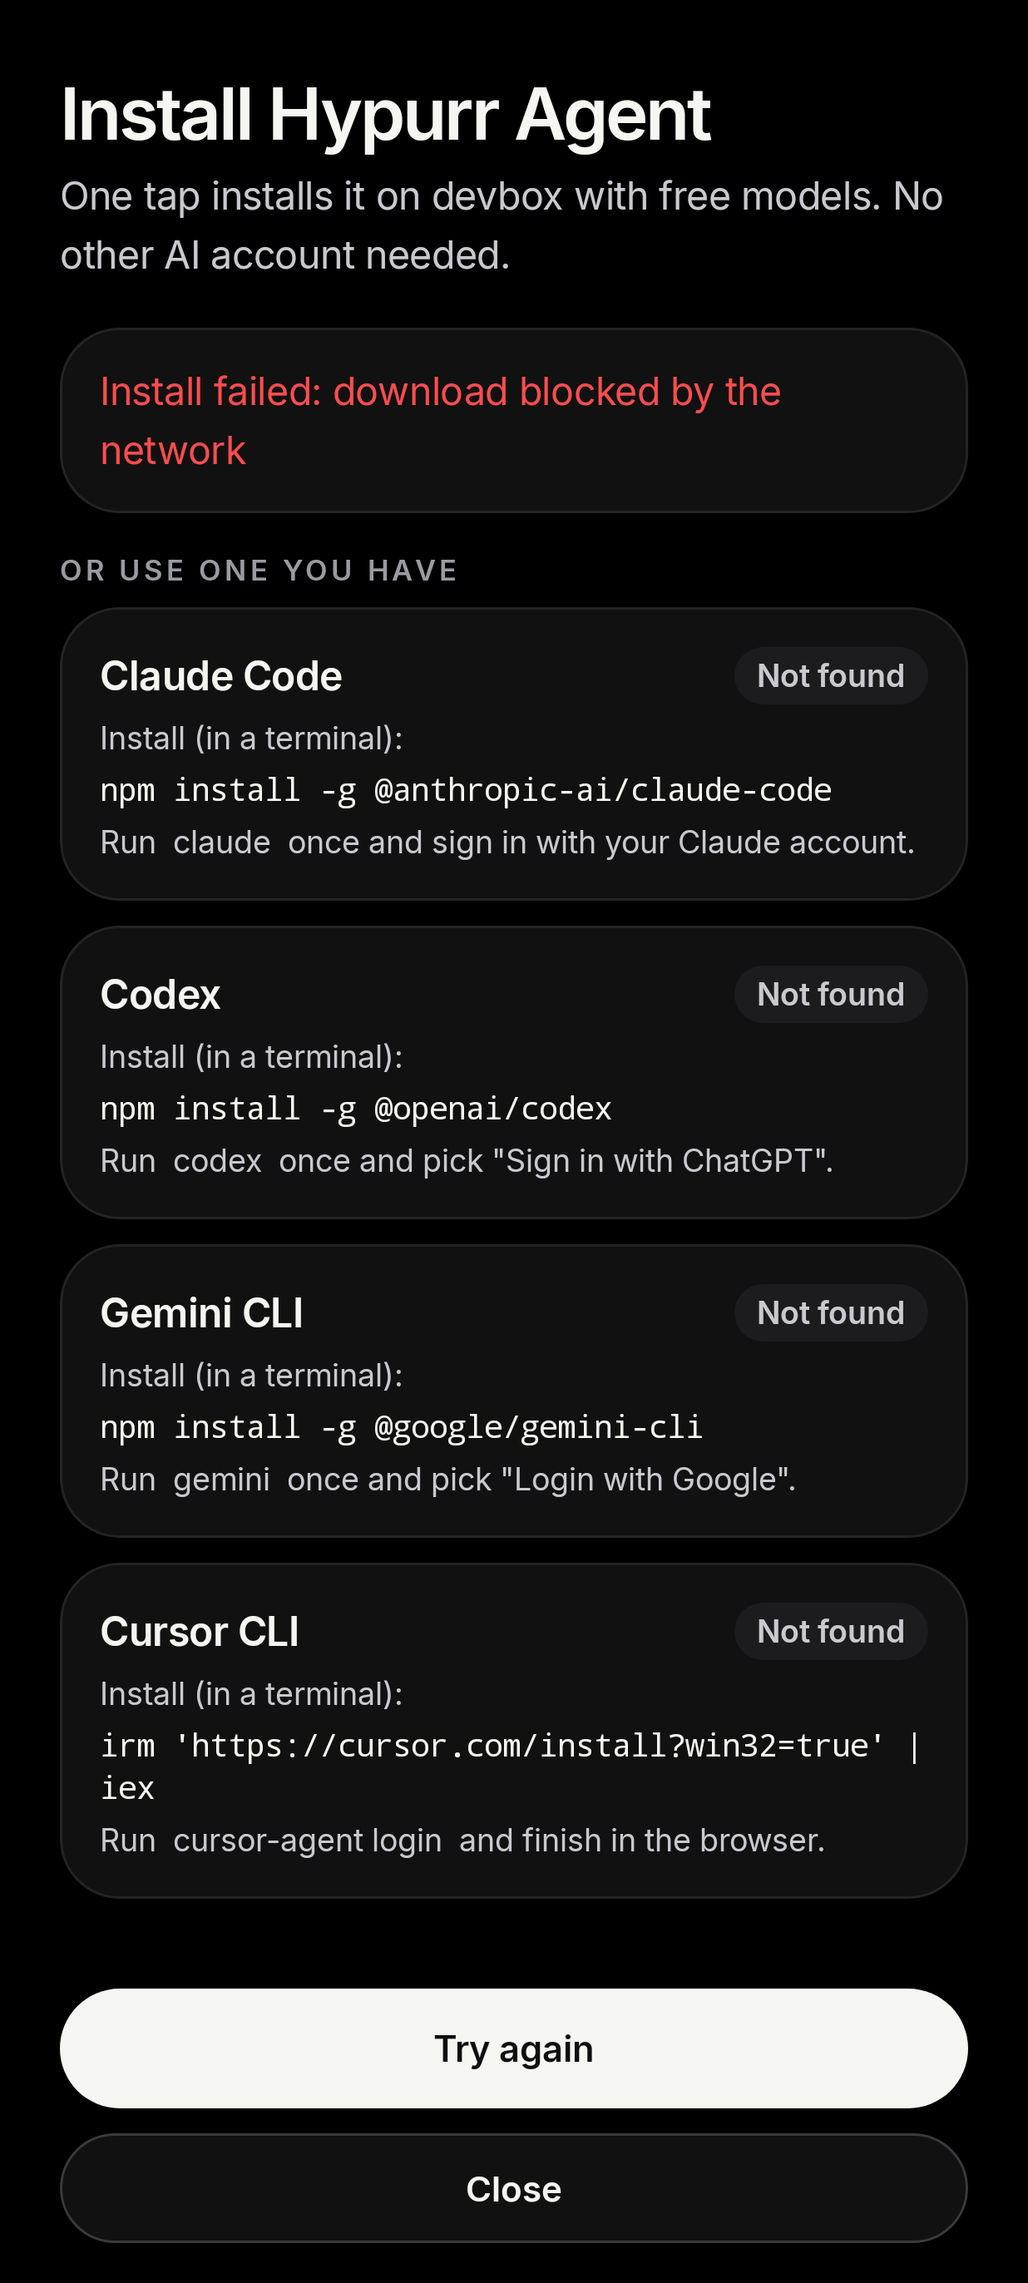
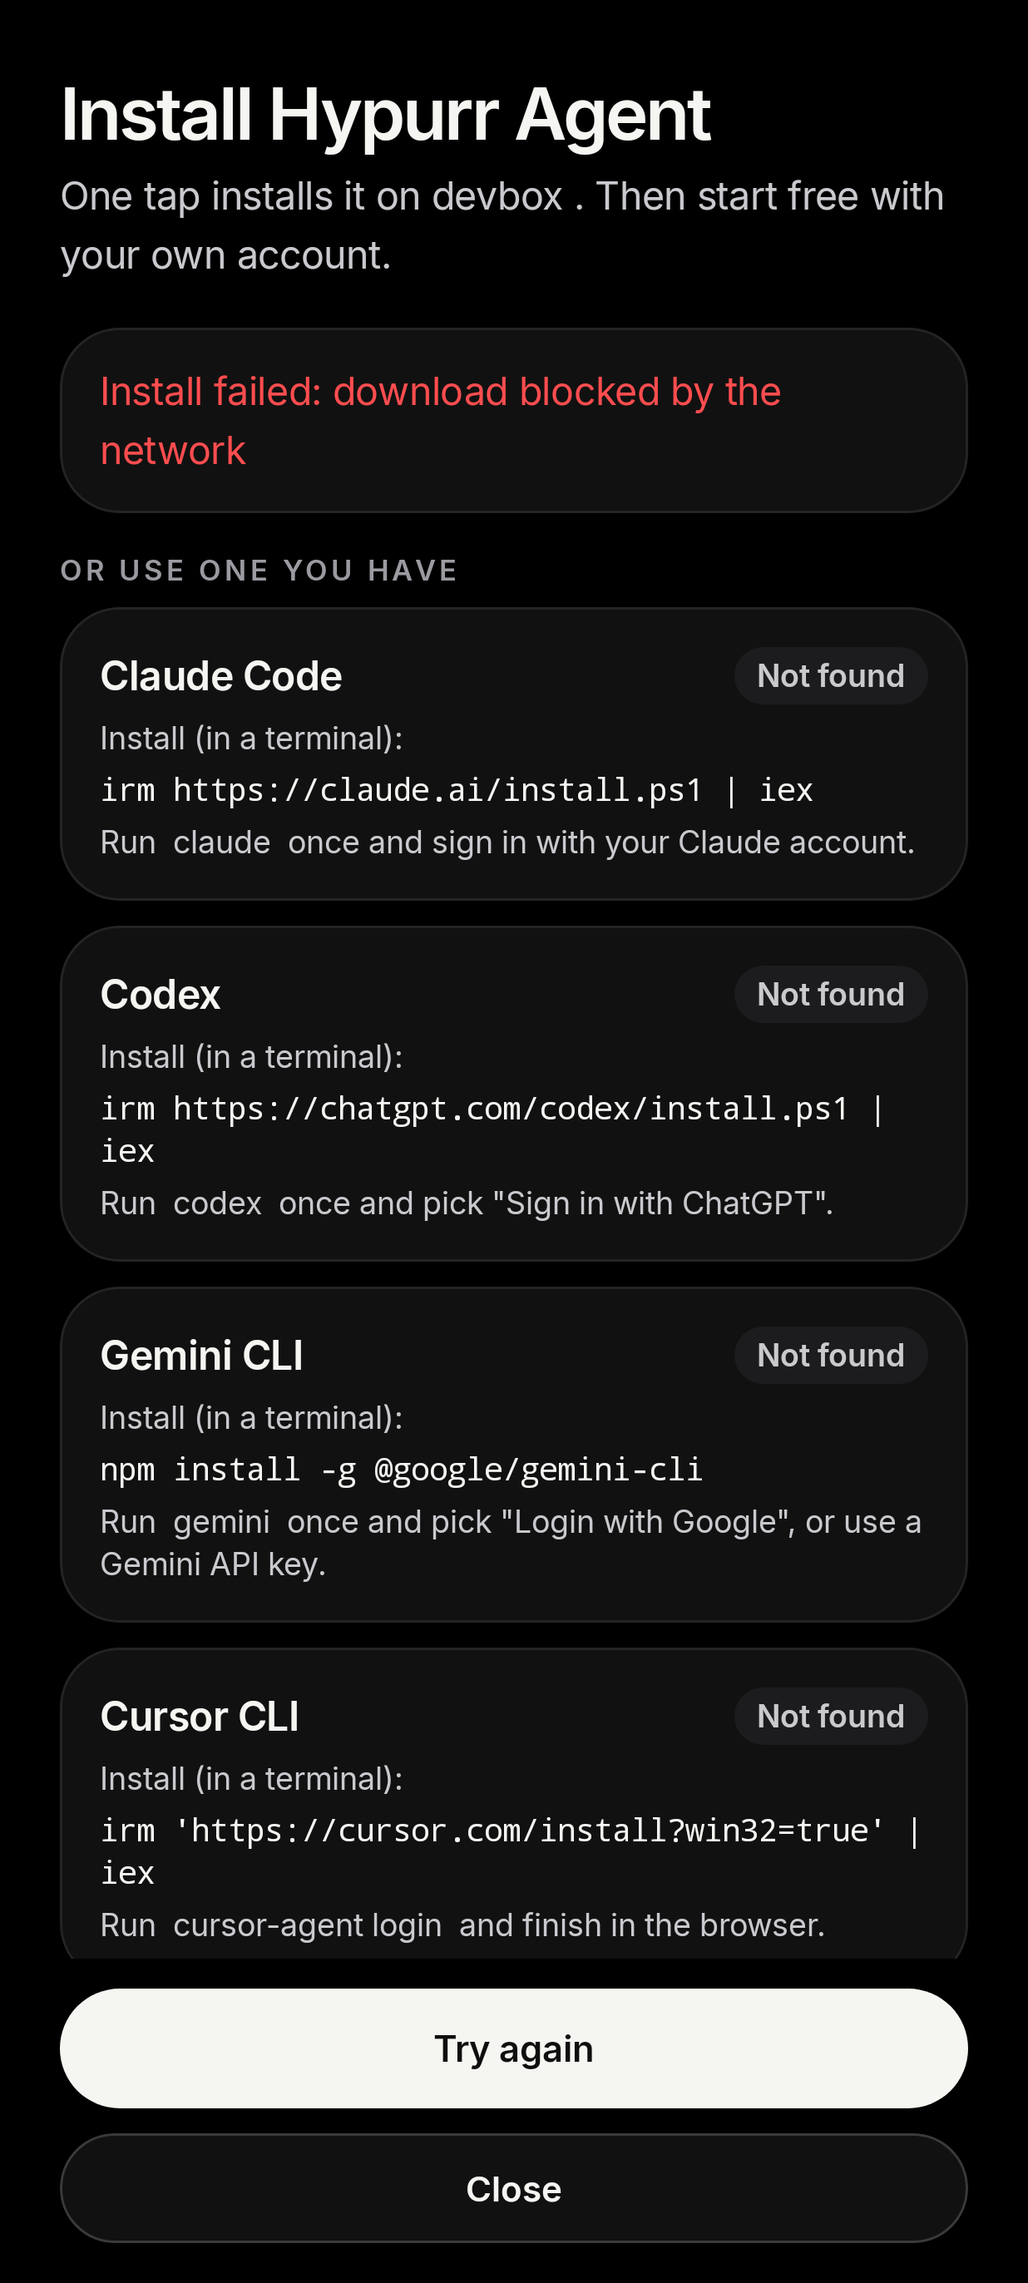
Gemini: plain words when Google refuses free sign-in; Use a Gemini API key (saved in the computer's vault)

diff --git a/apps/android/app/src/main/java/com/ragul84/hypurr/ui/screens/AgentSetup.kt b/apps/android/app/src/main/java/com/ragul84/hypurr/ui/screens/AgentSetup.kt
@@ -16,6 +16,8 @@ import androidx.compose.foundation.verticalScroll
 import androidx.compose.material3.MaterialTheme
 import androidx.compose.material3.Text
 import androidx.compose.runtime.Composable
+import androidx.compose.runtime.getValue
+import androidx.compose.runtime.setValue
 import androidx.compose.ui.Alignment
 import androidx.compose.ui.Modifier
 import androidx.compose.ui.semantics.semantics
@@ -63,7 +65,7 @@ data class KnownAgent(val id: String, val name: String, val install: String, val
 val KnownAgents = listOf(
     KnownAgent("claude", "Claude Code", "irm https://claude.ai/install.ps1 | iex", "Run  claude  once and sign in with your Claude account."),
     KnownAgent("codex", "Codex", "irm https://chatgpt.com/codex/install.ps1 | iex", "Run  codex  once and pick \"Sign in with ChatGPT\"."),
-    KnownAgent("gemini", "Gemini CLI", "npm install -g @google/gemini-cli", "Run  gemini  once and pick \"Login with Google\"."),
+    KnownAgent("gemini", "Gemini CLI", "npm install -g @google/gemini-cli", "Run  gemini  once and pick \"Login with Google\", or use a Gemini API key."),
     KnownAgent("cursor", "Cursor CLI", "irm 'https://cursor.com/install?win32=true' | iex", "Run  cursor-agent login  and finish in the browser."),
 )
 
@@ -75,6 +77,8 @@ fun AgentSetupPanel(
     onPair: () -> Unit = {},
     onCheckAgain: () -> Unit = {},
     onClose: () -> Unit = {},
+    /** Saves a Gemini API key on the computer; null hides the option. */
+    saveGeminiKey: (suspend (String) -> Unit)? = null,
 ) {
     val c = Hypurr.colors
     val mode = agentSetupMode(hello)
@@ -92,7 +96,7 @@ fun AgentSetupPanel(
                 }
                 AgentSetupMode.Windows -> {
                     Title("Use an agent you already have", "Update Hypurr on ${hello?.name?.ifEmpty { null } ?: "your PC"} to install Hypurr Agent with one tap. Until then, Hypurr can drive one of these.")
-                    AgentList(hello?.backends.orEmpty())
+                    AgentList(hello?.backends.orEmpty(), saveGeminiKey = saveGeminiKey)
                     Spacer(Modifier.height(12.dp))
                     Text("After installing, tap Check again.", color = c.tertiary, style = MaterialTheme.typography.bodySmall)
                 }
@@ -114,7 +118,7 @@ fun AgentSetupPanel(
                     Spacer(Modifier.height(16.dp))
                     Eyebrow("Or use one you have")
                     Spacer(Modifier.height(8.dp))
-                    AgentList(hello?.backends.orEmpty(), windows = win)
+                    AgentList(hello?.backends.orEmpty(), windows = win, saveGeminiKey = saveGeminiKey)
                 }
             }
             Spacer(Modifier.height(16.dp))
@@ -168,8 +172,12 @@ private fun Steps(lines: List<String>) {
 }
 
 @Composable
-private fun AgentList(backends: List<Backend>, windows: Boolean = true) {
+private fun AgentList(backends: List<Backend>, windows: Boolean = true, saveGeminiKey: (suspend (String) -> Unit)? = null) {
     val c = Hypurr.colors
+    var keyOpen by androidx.compose.runtime.saveable.rememberSaveable { androidx.compose.runtime.mutableStateOf(false) }
+    if (keyOpen && saveGeminiKey != null) {
+        com.ragul84.hypurr.ui.GeminiKeyDialog(saveGeminiKey, onDone = { keyOpen = false }, onDismiss = { keyOpen = false })
+    }
     Column(verticalArrangement = Arrangement.spacedBy(10.dp)) {
         KnownAgents.forEach { a ->
             val b = backends.firstOrNull { it.id == a.id }
@@ -189,6 +197,9 @@ private fun AgentList(backends: List<Backend>, windows: Boolean = true) {
                             color = c.text, style = MaterialTheme.typography.bodySmall.copy(fontFamily = FontFamily.Monospace))
                     }
                     if (!installed || b?.signedIn == false) Text(a.signIn, color = c.secondary, style = MaterialTheme.typography.bodySmall)
+                    if (a.id == "gemini" && installed && b?.signedIn != true && saveGeminiKey != null) {
+                        SoftButton("Use a Gemini API key", Modifier.fillMaxWidth()) { keyOpen = true }
+                    }
                 }
             }
         }

diff --git a/apps/android/app/src/main/java/com/ragul84/hypurr/ui/GeminiKey.kt b/apps/android/app/src/main/java/com/ragul84/hypurr/ui/GeminiKey.kt
@@ -1,0 +1,83 @@
+package com.ragul84.hypurr.ui
+
+import android.content.Intent
+import android.net.Uri
+import androidx.compose.foundation.background
+import androidx.compose.foundation.layout.Arrangement
+import androidx.compose.foundation.layout.Box
+import androidx.compose.foundation.layout.Column
+import androidx.compose.foundation.layout.fillMaxWidth
+import androidx.compose.foundation.layout.padding
+import androidx.compose.foundation.shape.RoundedCornerShape
+import androidx.compose.foundation.text.BasicTextField
+import androidx.compose.material3.MaterialTheme
+import androidx.compose.material3.Text
+import androidx.compose.runtime.Composable
+import androidx.compose.runtime.getValue
+import androidx.compose.runtime.mutableStateOf
+import androidx.compose.runtime.remember
+import androidx.compose.runtime.rememberCoroutineScope
+import androidx.compose.runtime.setValue
+import androidx.compose.ui.Modifier
+import androidx.compose.ui.graphics.SolidColor
+import androidx.compose.ui.platform.LocalContext
+import androidx.compose.ui.unit.dp
+import androidx.compose.ui.window.Dialog
+import com.ragul84.hypurr.ui.theme.Hypurr
+import kotlinx.coroutines.launch
+import androidx.compose.ui.text.input.PasswordVisualTransformation
+
+const val GEMINI_KEY_URL = "https://aistudio.google.com/apikey"
+
+/**
+ * Gemini with an API key, for accounts where Google refuses free Google sign-in. The key goes
+ * to the computer (kept in its vault, never logged); the phone doesn't keep it.
+ */
+@Composable
+fun GeminiKeyDialog(
+    save: suspend (String) -> Unit,
+    onDone: () -> Unit,
+    onDismiss: () -> Unit,
+) {
+    Dialog(onDismissRequest = onDismiss) { GeminiKeyForm(save, onDone) }
+}
+
+/** The dialog's body (tests render it without a window). */
+@Composable
+fun GeminiKeyForm(save: suspend (String) -> Unit, onDone: () -> Unit) {
+    val c = Hypurr.colors
+    val ctx = LocalContext.current
+    val scope = rememberCoroutineScope()
+    var key by remember { mutableStateOf("") }
+    var busy by remember { mutableStateOf(false) }
+    var error by remember { mutableStateOf<String?>(null) }
+    run {
+        SignalCard(Modifier.fillMaxWidth()) {
+            Column(Modifier.padding(20.dp), verticalArrangement = Arrangement.spacedBy(12.dp)) {
+                Text("Use a Gemini API key", color = c.text, style = MaterialTheme.typography.titleLarge)
+                Text(
+                    "Get a free key from Google AI Studio, then paste it here. It's saved only on your computer.",
+                    color = c.secondary, style = MaterialTheme.typography.bodyMedium,
+                )
+                SoftButton("Get a key", Modifier.fillMaxWidth()) {
+                    ctx.startActivity(Intent(Intent.ACTION_VIEW, Uri.parse(GEMINI_KEY_URL)).addFlags(Intent.FLAG_ACTIVITY_NEW_TASK))
+                }
+                Box(Modifier.fillMaxWidth().background(c.surface2, RoundedCornerShape(12.dp)).padding(14.dp)) {
+                    if (key.isEmpty()) Text("Paste key", color = c.secondary, style = MaterialTheme.typography.bodyLarge)
+                    BasicTextField(key, { key = it }, singleLine = true, cursorBrush = SolidColor(c.accent),
+                        visualTransformation = PasswordVisualTransformation(),
+                        textStyle = MaterialTheme.typography.bodyLarge.copy(color = c.text), modifier = Modifier.fillMaxWidth())
+                }
+                PrimaryButton("Save", Modifier.fillMaxWidth(), enabled = key.isNotBlank() && !busy) {
+                    busy = true; error = null
+                    scope.launch {
+                        try { save(key.trim()); key = ""; onDone() } catch (e: Exception) {
+                            error = e.message ?: "Couldn't save the key. Try again."
+                        } finally { busy = false }
+                    }
+                }
+                error?.let { Text(it, color = c.danger, style = MaterialTheme.typography.bodyMedium) }
+            }
+        }
+    }
+}

diff --git a/apps/android/app/src/test/java/com/ragul84/hypurr/ui/AgentSetupTest.kt b/apps/android/app/src/test/java/com/ragul84/hypurr/ui/AgentSetupTest.kt
@@ -114,4 +114,29 @@ class AgentSetupTest {
     @Test fun shotWindows() = shoot("agent-setup-windows") { AgentSetupPanel(win) }
     @Test fun shotOneTapFailed() = shoot("agent-setup-install-failed") { AgentSetupPanel(linux, AgentInstallState(error = "download blocked by the network")) }
     @Test fun shotOneTapBusy() = shoot("agent-setup-installing") { AgentSetupPanel(linux, AgentInstallState(busy = true)) }
+
+    private val winGemini = win.copy(backends = listOf(
+        Backend("claude", "Claude Code", installed = true, signedIn = true),
+        Backend("gemini", "Gemini CLI", installed = true, signedIn = false),
+    ))
+
+    @Test fun geminiKeyOptionOpensTheKeyForm() {
+        compose.setContent { HypurrTheme(ThemeMode.Light) { AgentSetupPanel(winGemini, saveGeminiKey = {}) } }
+        compose.onNodeWithText("Use a Gemini API key").performScrollTo().assertIsDisplayed()
+    }
+
+    @Test fun geminiKeyFormSavesOnlyAKey() {
+        compose.setContent { HypurrTheme(ThemeMode.Light) { GeminiKeyForm(save = {}, onDone = {}) } }
+        compose.onNodeWithText("saved only on your computer", substring = true).assertIsDisplayed()
+        compose.onNodeWithText("Save").assertIsNotEnabled()
+    }
+
+    @Test fun geminiKeyHiddenWhenSignedIn() {
+        val ok = winGemini.copy(backends = listOf(Backend("gemini", "Gemini CLI", installed = true, signedIn = true)))
+        compose.setContent { HypurrTheme(ThemeMode.Light) { AgentSetupPanel(ok, saveGeminiKey = {}) } }
+        assertEquals(0, compose.onAllNodesWithText("Use a Gemini API key").fetchSemanticsNodes().size)
+    }
+
+    @Test fun shotGeminiKeyOption() = shoot("agent-setup-gemini-key") { AgentSetupPanel(winGemini, saveGeminiKey = {}) }
+    @Test fun shotGeminiKeyForm() = shoot("gemini-key-form") { GeminiKeyForm(save = {}, onDone = {}) }
 }

diff --git a/apps/android/app/src/main/java/com/ragul84/hypurr/data/HypurrStore.kt b/apps/android/app/src/main/java/com/ragul84/hypurr/data/HypurrStore.kt
@@ -595,6 +595,17 @@ class HypurrStore(
     private val _costs = MutableStateFlow<TaskCosts?>(null)
     val costs: StateFlow<TaskCosts?> = _costs.asStateFlow()
 
+    /** Gemini with an API key; throws the computer's plain words when it still can't sign in. */
+    suspend fun saveGeminiKey(key: String) {
+        val res = (client ?: throw HostException.unreachable()).setAgentEnv("gemini", "GEMINI_API_KEY", key)
+        refreshHello()
+        val signedIn = (res["signedIn"] as? kotlinx.serialization.json.JsonPrimitive)?.content
+        if (signedIn == "false") {
+            val why = (res["detail"] as? kotlinx.serialization.json.JsonPrimitive)?.content
+            throw IllegalStateException(why ?: "Gemini didn't accept that key. Check it and try again.")
+        }
+    }
+
     suspend fun ownFreeStart(): String = (client ?: throw HostException.unreachable()).ownFreeStart()
     suspend fun ownFreeFinish(code: String) { (client ?: throw HostException.unreachable()).ownFreeFinish(code); loadCosts(); refreshHello() }
     suspend fun ownFreeDisconnect() { (client ?: throw HostException.unreachable()).ownFreeDisconnect(); loadCosts(); refreshHello() }

diff --git a/apps/android/app/src/main/java/com/ragul84/hypurr/net/HostClient.kt b/apps/android/app/src/main/java/com/ragul84/hypurr/net/HostClient.kt
@@ -385,6 +385,10 @@ class HostClient(val transport: ChannelTransport) {
 
     suspend fun taskCosts(): TaskCosts = call("taskCosts")
 
+    /** Saves a key for an agent on the computer (its vault); returns the agent's new sign-in check. */
+    suspend fun setAgentEnv(backend: String, name: String, value: String): JsonObject =
+        call("setAgentEnv", buildJsonObject { put("backend", backend); put("vars", buildJsonObject { put(name, value) }) }, timeoutMs = 120_000)
+
     // "Keep going free": the user's own OpenRouter account (OAuth PKCE; the computer keeps the key).
     suspend fun ownFreeStart(): String = call<JsonObject>("ownFreeStart")["url"]!!.jsonPrimitive.content
     suspend fun ownFreeFinish(code: String) { call<JsonObject>("ownFreeFinish", buildJsonObject { put("code", code) }, timeoutMs = 30_000) }

diff --git a/apps/android/app/src/main/java/com/ragul84/hypurr/MainActivity.kt b/apps/android/app/src/main/java/com/ragul84/hypurr/MainActivity.kt
@@ -259,6 +259,7 @@ class MainActivity : ComponentActivity() {
                     onPair = { setupOpen = false; startScan() },
                     onCheckAgain = { store.reconnect() },
                     onClose = { setupOpen = false },
+                    saveGeminiKey = { store.saveGeminiKey(it) },
                 )
             }
         }

diff --git a/host/src/agent/auth.rs b/host/src/agent/auth.rs
@@ -188,7 +188,13 @@ async fn probe(store: &Store, backend: &str) -> Result<Status> {
         Ok(Ok(_)) => (Some(true), None),
         Ok(Err(e)) => match e.downcast_ref::<RpcError>() {
             Some(r) if r.code == AUTH_REQUIRED => (Some(false), Some(r.message.clone())),
-            _ => (None, Some(format!("{e:#}"))),
+            _ => {
+                let text = format!("{e:#}");
+                match plain_error(&text) {
+                    Some(plain) => (Some(false), Some(plain.to_owned())),
+                    None => (None, Some(text)),
+                }
+            }
         },
         Err(_) => (None, None),
     };
@@ -320,7 +326,46 @@ fn methods(backend: &str, init: &Value, cmd: &Cmd) -> Vec<Method> {
     let keyed: Vec<String> =
         out.iter().filter(|m| matches!(m.kind, MethodKind::EnvVar { .. })).map(|m| m.name.clone()).collect();
     out.retain(|m| !matches!(m.kind, MethodKind::Agent) || !keyed.contains(&m.name));
+    // Gemini CLI reads GEMINI_API_KEY but doesn't advertise it as an env-var method; Google
+    // refuses free Google sign-in for many accounts, so always offer a key.
+    if backend == "gemini" && !out.iter().any(|m| has_var(m, GEMINI_KEY)) {
+        out.insert(0, gemini_key_method());
+    }
     out
+}
+
+pub const GEMINI_KEY: &str = "GEMINI_API_KEY";
+const GEMINI_KEY_METHOD: &str = "gemini-api-key";
+
+/// What Google's refusal of free Google sign-in means, in plain words.
+pub const GEMINI_FREE_REFUSED: &str = "Google no longer lets Gemini CLI use a free Google sign-in on this account. Use a Gemini API key instead (free from Google AI Studio).";
+
+/// Plain words for an agent error we recognise, or None.
+pub fn plain_error(text: &str) -> Option<&'static str> {
+    let t = text.to_lowercase();
+    (t.contains("no longer supported for gemini code assist") || t.contains("migrate to the antigravity"))
+        .then_some(GEMINI_FREE_REFUSED)
+}
+
+fn has_var(m: &Method, name: &str) -> bool {
+    matches!(&m.kind, MethodKind::EnvVar { vars, .. } if vars.iter().any(|v| v.name == name))
+}
+
+fn gemini_key_method() -> Method {
+    Method {
+        id: GEMINI_KEY_METHOD.into(),
+        name: "Use a Gemini API key".into(),
+        description: Some("Free from Google AI Studio. Saved only on this computer.".into()),
+        kind: MethodKind::EnvVar {
+            vars: vec![EnvVar {
+                name: GEMINI_KEY.into(),
+                label: "Gemini API key".into(),
+                secret: true,
+                optional: false,
+            }],
+            link: Some("https://aistudio.google.com/apikey".into()),
+        },
+    }
 }
 
 /// The terminal command for a method found by the last check.
@@ -333,6 +378,11 @@ pub fn terminal_command(backend: &str, method: &str) -> Option<String> {
 
 /// Lets the agent sign itself in (it usually opens a browser on this computer).
 pub async fn authenticate(store: &Store, backend: &str, method: &str) -> Result<Value> {
+    authenticate_once(store, backend, method).await?;
+    check(store, backend).await
+}
+
+async fn authenticate_once(store: &Store, backend: &str, method: &str) -> Result<()> {
     let (acp, _inbox, _, _) = start(store, backend).await?;
     let res =
         tokio::time::timeout(Duration::from_secs(10 * 60), acp.request("authenticate", json!({"methodId": method})))
@@ -340,11 +390,11 @@ pub async fn authenticate(store: &Store, backend: &str, method: &str) -> Result<
     acp.kill().await;
     match res {
         Ok(r) => {
-            r.context("signing in")?;
+            r.map_err(|e| plain_error(&format!("{e:#}")).map_or(e, |p| anyhow!(p))).context("signing in")?;
+            Ok(())
         }
         Err(_) => bail!("Sign-in didn't finish within 10 minutes."),
     }
-    check(store, backend).await
 }
 
 /// Saves the keys for an env-var method (empty values remove them), then re-checks.
@@ -360,6 +410,14 @@ pub async fn set_env(store: &Store, backend: &str, vars: &Map<String, Value>) ->
         };
     }
     crate::market::vault::write(store, &env_slot(backend), &serde_json::to_string(&saved)?)?;
+    // Gemini keeps using the sign-in it picked last (Google sign-in) until told to use the key.
+    if backend == "gemini" && saved.contains_key(GEMINI_KEY) {
+        let switched = authenticate_once(store, backend, GEMINI_KEY_METHOD).await;
+        if let Err(e) = switched {
+            // Never log the key: only the agent's error text.
+            tracing::warn!(error = %e, "gemini didn't accept the API key method");
+        }
+    }
     check(store, backend).await
 }
 
@@ -446,5 +504,26 @@ mod tests {
         let init = json!({"authMethods": [{"id": "k", "name": "Kilo", "_meta": {"terminal-auth": {"command": "opencode", "args": ["auth", "login"]}}}]});
         assert!(methods("kilo", &init, &cmd()).is_empty());
         assert_eq!(methods("opencode", &init, &cmd()).len(), 1);
+    }
+
+    #[test]
+    fn gemini_always_offers_an_api_key() {
+        let init = json!({"authMethods": [{"id": "oauth-personal", "name": "Log in with Google"}]});
+        let m = methods("gemini", &init, &cmd());
+        assert_eq!(m[0].id, "gemini-api-key");
+        assert!(has_var(&m[0], GEMINI_KEY));
+        assert!(serde_json::to_string(&m[0]).unwrap().contains("aistudio.google.com"));
+        // Not for other agents, and not twice when Gemini advertises it itself.
+        assert!(methods("claude", &init, &cmd()).iter().all(|m| m.id != "gemini-api-key"));
+        let own = json!({"authMethods": [{"id": "k", "name": "Key", "type": "env_var", "vars": [{"name": "GEMINI_API_KEY"}]}]});
+        assert_eq!(methods("gemini", &own, &cmd()).len(), 1);
+    }
+
+    #[test]
+    fn google_refusal_reads_plainly() {
+        let raw = "This client is no longer supported for Gemini Code Assist for individuals. To continue using Gemini, please migrate to the Antigravity suite of products: https://antigravity.google";
+        assert_eq!(plain_error(raw), Some(GEMINI_FREE_REFUSED));
+        assert_eq!(plain_error("rate limited"), None);
+        assert!(!GEMINI_FREE_REFUSED.contains("Antigravity"));
     }
 }

diff --git a/host/src/agent/bot.rs b/host/src/agent/bot.rs
@@ -502,6 +502,9 @@ impl Actor {
             // Keep the reason ("(gateway said …)") so the phone says why.
             e.to_string()[i..].clone_into(&mut msg);
         }
+        if let Some(plain) = crate::agent::auth::plain_error(&format!("{e:#}")) {
+            plain.clone_into(&mut msg);
+        }
         if e.to_string().contains(crate::agent::builtin::NEEDS_ACCOUNT) {
             crate::agent::builtin::NEEDS_ACCOUNT.clone_into(&mut msg);
         }
